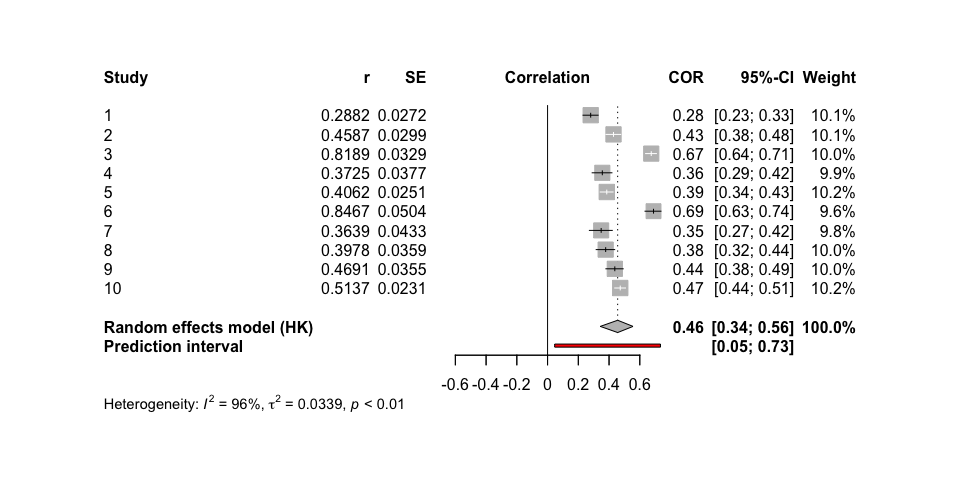
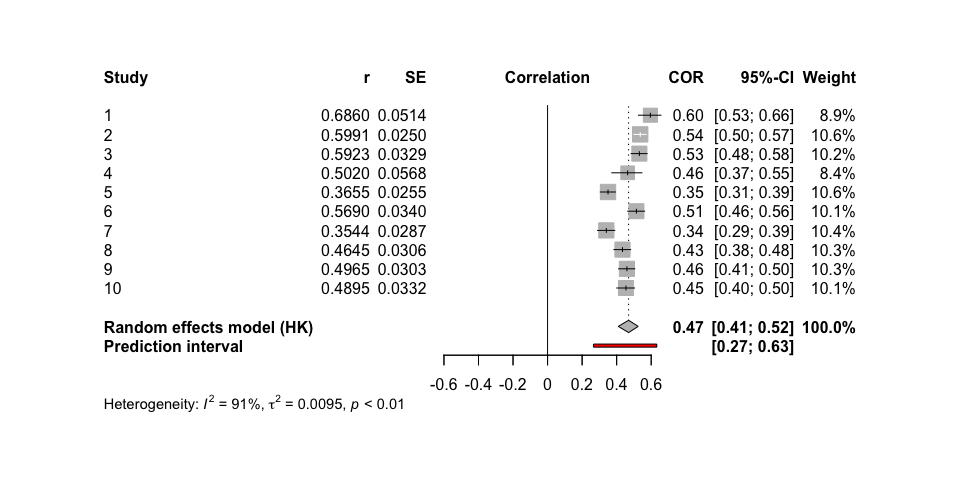
adjust figure height subgroup analysis demo

diff --git a/README.md b/README.md
@@ -48,14 +48,14 @@ sim <- sim_meta(min_obs = 20,
 
 head(sim)
 #> # A tibble: 6 × 10
-#>   study hedges_g     se  mean_x mean_y  sd_x  sd_y   n_x   n_y      vi
-#>   <int>    <dbl>  <dbl>   <dbl>  <dbl> <dbl> <dbl> <int> <int>   <dbl>
-#> 1     1    0.308 0.0677 -0.0499  0.263 0.980 1.05    441   441 0.00459
-#> 2     2    0.202 0.191  -0.0418  0.151 1.05  0.831    55    55 0.0365 
-#> 3     3    0.355 0.0559 -0.0928  0.260 0.981 1.01    649   649 0.00313
-#> 4     4    0.212 0.0468  0.0256  0.240 1.01  1.01    919   919 0.00219
-#> 5     5    0.264 0.0669  0.0213  0.287 1.01  1.01    451   451 0.00447
-#> 6     6    0.348 0.0397  0.0136  0.363 0.999 1.01   1291  1291 0.00157
+#>   study hedges_g     se   mean_x mean_y  sd_x  sd_y   n_x   n_y      vi
+#>   <int>    <dbl>  <dbl>    <dbl>  <dbl> <dbl> <dbl> <int> <int>   <dbl>
+#> 1     1    0.338 0.0777 -0.00348  0.345 1.02  1.03    336   336 0.00604
+#> 2     2    0.351 0.0462 -0.0264   0.332 1.02  1.02    951   951 0.00214
+#> 3     3    0.339 0.0709 -0.0557   0.293 1.01  1.05    404   404 0.00502
+#> 4     4    0.369 0.0552 -0.0361   0.325 0.953 1.00    668   668 0.00304
+#> 5     5    0.258 0.0348  0.0288   0.291 1.01  1.03   1666  1666 0.00121
+#> 6     6    0.269 0.0637  0.0259   0.292 0.998 0.976   497   497 0.00406
 ```
 
 ### Effect size and standard error
@@ -94,30 +94,30 @@ meta_fixed <- metagen(TE = hedges_g,
 summary(meta_fixed)
 #> Review:     Meta-Analysis Fixed effect
 #> 
-#>       SMD            95%-CI %W(common)
-#> 1  0.3078 [ 0.1751; 0.4406]        5.0
-#> 2  0.2016 [-0.1731; 0.5763]        0.6
-#> 3  0.3547 [ 0.2450; 0.4643]        7.3
-#> 4  0.2115 [ 0.1198; 0.3032]       10.4
-#> 5  0.2642 [ 0.1331; 0.3952]        5.1
-#> 6  0.3484 [ 0.2707; 0.4261]       14.5
-#> 7  0.3153 [ 0.2495; 0.3810]       20.3
-#> 8  0.2207 [ 0.1285; 0.3129]       10.3
-#> 9  0.3140 [ 0.2262; 0.4018]       11.4
-#> 10 0.3515 [ 0.2751; 0.4279]       15.0
+#>       SMD           95%-CI %W(common)
+#> 1  0.3385 [0.1862; 0.4908]        4.6
+#> 2  0.3508 [0.2602; 0.4414]       13.0
+#> 3  0.3391 [0.2002; 0.4780]        5.5
+#> 4  0.3690 [0.2609; 0.4772]        9.1
+#> 5  0.2583 [0.1901; 0.3265]       22.9
+#> 6  0.2689 [0.1440; 0.3938]        6.8
+#> 7  0.3389 [0.2209; 0.4568]        7.7
+#> 8  0.3103 [0.1321; 0.4884]        3.4
+#> 9  0.2165 [0.0184; 0.4145]        2.7
+#> 10 0.3306 [0.2643; 0.3970]       24.2
 #> 
 #> Number of studies: k = 10
 #> 
 #>                        SMD           95%-CI     z  p-value
-#> Common effect model 0.3040 [0.2743; 0.3336] 20.11 < 0.0001
+#> Common effect model 0.3136 [0.2810; 0.3463] 18.82 < 0.0001
 #> 
 #> Quantifying heterogeneity:
-#>  tau^2 = 0.0009 [0.0000; 0.0073]; tau = 0.0302 [0.0000; 0.0857]
-#>  I^2 = 21.1% [0.0%; 61.3%]; H = 1.13 [1.00; 1.61]
+#>  tau^2 < 0.0001 [0.0000; 0.0033]; tau = 0.0085 [0.0000; 0.0571]
+#>  I^2 = 0.0% [0.0%; 62.4%]; H = 1.00 [1.00; 1.63]
 #> 
 #> Test of heterogeneity:
-#>      Q d.f. p-value
-#>  11.41    9  0.2485
+#>     Q d.f. p-value
+#>  6.26    9  0.7138
 #> 
 #> Details on meta-analytical method:
 #> - Inverse variance method
@@ -151,14 +151,14 @@ sim <- sim_meta(min_obs = 200,
 
 head(sim)
 #> # A tibble: 6 × 10
-#>   study hedges_g     se  mean_x mean_y  sd_x  sd_y   n_x   n_y      vi
-#>   <int>    <dbl>  <dbl>   <dbl>  <dbl> <dbl> <dbl> <int> <int>   <dbl>
-#> 1     1    0.735 0.0469 -0.0140  0.720 0.993 1.00    972   972 0.00220
-#> 2     2    0.707 0.0361  0.0604  0.767 0.993 1.01   1634  1634 0.00130
-#> 3     3    0.735 0.0708  0.0114  0.765 1.04  1.01    426   426 0.00501
-#> 4     4    0.741 0.0553  0.0348  0.783 0.994 1.02    699   699 0.00306
-#> 5     5    0.782 0.0449 -0.0791  0.710 1.03  0.989  1070  1070 0.00201
-#> 6     6    0.707 0.0489  0.0600  0.749 0.993 0.957   890   890 0.00239
+#>   study hedges_g     se   mean_x mean_y  sd_x  sd_y   n_x   n_y      vi
+#>   <int>    <dbl>  <dbl>    <dbl>  <dbl> <dbl> <dbl> <int> <int>   <dbl>
+#> 1     1    0.641 0.0400  0.0627   0.697 0.981 0.998  1311  1311 0.00160
+#> 2     2    0.855 0.0409 -0.0306   0.823 0.977 1.02   1307  1307 0.00167
+#> 3     3    0.567 0.0413 -0.0727   0.492 1.02  0.969  1219  1219 0.00171
+#> 4     4    0.806 0.0530 -0.00846  0.794 0.994 0.996   771   771 0.00280
+#> 5     5    0.676 0.0435  0.0177   0.692 1.02  0.971  1119  1119 0.00189
+#> 6     6    0.607 0.0379  0.112    0.718 1.00  0.996  1453  1453 0.00144
 ```
 
 ### Run Meta-Analysis on simulated data
@@ -182,29 +182,29 @@ summary(meta_random)
 #> Review:     Meta-Analysis Random Effects
 #> 
 #>       SMD           95%-CI %W(random)
-#> 1  0.7349 [0.6430; 0.8267]        8.5
-#> 2  0.7068 [0.6361; 0.7775]       14.4
-#> 3  0.7350 [0.5963; 0.8738]        3.7
-#> 4  0.7408 [0.6324; 0.8492]        6.1
-#> 5  0.7817 [0.6938; 0.8696]        9.3
-#> 6  0.7066 [0.6108; 0.8023]        7.8
-#> 7  0.7490 [0.6786; 0.8194]       14.5
-#> 8  0.8624 [0.7125; 1.0122]        3.2
-#> 9  0.7440 [0.6755; 0.8124]       15.3
-#> 10 0.7063 [0.6413; 0.7713]       17.0
+#> 1  0.6407 [0.5622; 0.7191]       10.3
+#> 2  0.8548 [0.7747; 0.9349]       10.2
+#> 3  0.5672 [0.4862; 0.6481]       10.2
+#> 4  0.8060 [0.7022; 0.9098]        9.4
+#> 5  0.6758 [0.5906; 0.7610]       10.1
+#> 6  0.6066 [0.5322; 0.6810]       10.4
+#> 7  0.6020 [0.5371; 0.6668]       10.7
+#> 8  0.5616 [0.4788; 0.6444]       10.2
+#> 9  0.6947 [0.5505; 0.8389]        7.9
+#> 10 0.8369 [0.7668; 0.9070]       10.6
 #> 
 #> Number of studies: k = 10
 #> 
 #>                              SMD           95%-CI     t  p-value
-#> Random effects model (HK) 0.7360 [0.7112; 0.7608] 67.13 < 0.0001
+#> Random effects model (HK) 0.6834 [0.6032; 0.7637] 19.26 < 0.0001
 #> 
 #> Quantifying heterogeneity:
-#>  tau^2 = 0 [0.0000; 0.0033]; tau = 0 [0.0000; 0.0570]
-#>  I^2 = 0.0% [0.0%; 62.4%]; H = 1.00 [1.00; 1.63]
+#>  tau^2 = 0.0109 [0.0042; 0.0393]; tau = 0.1045 [0.0645; 0.1983]
+#>  I^2 = 86.9% [77.9%; 92.3%]; H = 2.77 [2.13; 3.59]
 #> 
 #> Test of heterogeneity:
-#>     Q d.f. p-value
-#>  5.78    9  0.7618
+#>      Q d.f.  p-value
+#>  68.84    9 < 0.0001
 #> 
 #> Details on meta-analytical method:
 #> - Inverse variance method
@@ -243,12 +243,12 @@ head(sim)
 #> # A tibble: 6 × 5
 #>   study     z     r     n     se
 #>   <int> <dbl> <dbl> <int>  <dbl>
-#> 1     1 0.498 0.461  1331 0.0274
-#> 2     2 0.560 0.508   960 0.0323
-#> 3     3 0.563 0.511  1874 0.0231
-#> 4     4 0.569 0.515  1448 0.0263
-#> 5     5 0.522 0.480   828 0.0348
-#> 6     6 0.596 0.534  1575 0.0252
+#> 1     1 0.573 0.518  1634 0.0248
+#> 2     2 0.523 0.480   523 0.0439
+#> 3     3 0.484 0.449   942 0.0326
+#> 4     4 0.571 0.516  1700 0.0243
+#> 5     5 0.550 0.500   775 0.0360
+#> 6     6 0.569 0.515  1850 0.0233
 ```
 
 ### Run Meta-Analysis on simulated data
@@ -269,29 +269,29 @@ summary(meta_fixed)
 #> Review:     Meta-Analysis Fixed effect
 #> 
 #>       COR           95%-CI %W(common)
-#> 1  0.4606 [0.4171; 0.5019]       10.9
-#> 2  0.5077 [0.4591; 0.5532]        7.8
-#> 3  0.5105 [0.4763; 0.5432]       15.3
-#> 4  0.5148 [0.4759; 0.5517]       11.8
-#> 5  0.4796 [0.4253; 0.5304]        6.7
-#> 6  0.5343 [0.4981; 0.5687]       12.9
-#> 7  0.5012 [0.4339; 0.5629]        4.2
-#> 8  0.4783 [0.4431; 0.5119]       15.8
-#> 9  0.5097 [0.4593; 0.5569]        7.2
-#> 10 0.4957 [0.4448; 0.5433]        7.4
+#> 1  0.5175 [0.4811; 0.5522]       14.2
+#> 2  0.4801 [0.4113; 0.5434]        4.5
+#> 3  0.4491 [0.3966; 0.4987]        8.2
+#> 4  0.5158 [0.4800; 0.5499]       14.8
+#> 5  0.5004 [0.4457; 0.5514]        6.7
+#> 6  0.5149 [0.4806; 0.5477]       16.1
+#> 7  0.5087 [0.4654; 0.5495]       10.4
+#> 8  0.4911 [0.4404; 0.5387]        8.0
+#> 9  0.4733 [0.4242; 0.5196]        8.9
+#> 10 0.5075 [0.4590; 0.5530]        8.3
 #> 
 #> Number of studies: k = 10
 #> 
 #>                        COR           95%-CI     z p-value
-#> Common effect model 0.5000 [0.4866; 0.5132] 60.75       0
+#> Common effect model 0.5009 [0.4871; 0.5145] 59.00       0
 #> 
 #> Quantifying heterogeneity:
-#>  tau^2 = 0.0002 [0.0000; 0.0020]; tau = 0.0156 [0.0000; 0.0446]
-#>  I^2 = 13.1% [0.0%; 54.3%]; H = 1.07 [1.00; 1.48]
+#>  tau^2 = 0 [0.0000; 0.0019]; tau = 0 [0.0000; 0.0440]
+#>  I^2 = 0.0% [0.0%; 62.4%]; H = 1.00 [1.00; 1.63]
 #> 
 #> Test of heterogeneity:
-#>      Q d.f. p-value
-#>  10.36    9  0.3223
+#>     Q d.f. p-value
+#>  8.46    9  0.4885
 #> 
 #> Details on meta-analytical method:
 #> - Inverse variance method
@@ -329,12 +329,12 @@ head(sim)
 #> # A tibble: 6 × 5
 #>   study     z     r     n     se
 #>   <int> <dbl> <dbl> <int>  <dbl>
-#> 1     1 0.288 0.280  1358 0.0272
-#> 2     2 0.459 0.429  1118 0.0299
-#> 3     3 0.819 0.674   925 0.0329
-#> 4     4 0.372 0.356   708 0.0377
-#> 5     5 0.406 0.385  1592 0.0251
-#> 6     6 0.847 0.689   397 0.0504
+#> 1     1 0.686 0.595   381 0.0514
+#> 2     2 0.599 0.536  1601 0.0250
+#> 3     3 0.592 0.532   927 0.0329
+#> 4     4 0.502 0.464   313 0.0568
+#> 5     5 0.366 0.350  1538 0.0255
+#> 6     6 0.569 0.515   866 0.0340
 ```
 
 ### Run Meta-Analysis on simulated data
@@ -356,29 +356,29 @@ summary(meta_random)
 #> Review:     Meta-Analysis Random Effects
 #> 
 #>       COR           95%-CI %W(random)
-#> 1  0.2805 [0.2307; 0.3288]       10.1
-#> 2  0.4290 [0.3799; 0.4757]       10.1
-#> 3  0.6745 [0.6378; 0.7082]       10.0
-#> 4  0.3562 [0.2901; 0.4188]        9.9
-#> 5  0.3852 [0.3426; 0.4263]       10.2
-#> 6  0.6893 [0.6339; 0.7377]        9.6
-#> 7  0.3487 [0.2720; 0.4209]        9.8
-#> 8  0.3780 [0.3162; 0.4366]       10.0
-#> 9  0.4374 [0.3795; 0.4920]       10.0
-#> 10 0.4728 [0.4370; 0.5072]       10.2
+#> 1  0.5954 [0.5264; 0.6566]        8.9
+#> 2  0.5364 [0.5006; 0.5704]       10.6
+#> 3  0.5316 [0.4838; 0.5762]       10.2
+#> 4  0.4637 [0.3719; 0.5465]        8.4
+#> 5  0.3501 [0.3054; 0.3932]       10.6
+#> 6  0.5146 [0.4639; 0.5620]       10.1
+#> 7  0.3403 [0.2896; 0.3891]       10.4
+#> 8  0.4338 [0.3839; 0.4811]       10.3
+#> 9  0.4593 [0.4112; 0.5050]       10.3
+#> 10 0.4538 [0.4006; 0.5040]       10.1
 #> 
 #> Number of studies: k = 10
 #> 
-#>                              COR           95%-CI    t  p-value
-#> Random effects model (HK) 0.4561 [0.3431; 0.5560] 8.26 < 0.0001
+#>                              COR           95%-CI     t  p-value
+#> Random effects model (HK) 0.4692 [0.4095; 0.5249] 15.55 < 0.0001
 #> 
 #> Quantifying heterogeneity:
-#>  tau^2 = 0.0339 [0.0154; 0.1181]; tau = 0.1840 [0.1241; 0.3436]
-#>  I^2 = 96.2% [94.6%; 97.4%]; H = 5.16 [4.31; 6.19]
+#>  tau^2 = 0.0095 [0.0038; 0.0345]; tau = 0.0972 [0.0618; 0.1858]
+#>  I^2 = 90.6% [84.8%; 94.1%]; H = 3.25 [2.56; 4.13]
 #> 
 #> Test of heterogeneity:
-#>       Q d.f.  p-value
-#>  239.90    9 < 0.0001
+#>      Q d.f.  p-value
+#>  95.30    9 < 0.0001
 #> 
 #> Details on meta-analytical method:
 #> - Inverse variance method
@@ -417,14 +417,14 @@ sim <- sim_meta(min_obs = 200,
 head(sim %>% 
        select(study, hedges_g, subgroup, everything()))
 #> # A tibble: 6 × 11
-#>   study hedges_g subgroup     se  mean_x mean_y  sd_x  sd_y   n_x   n_y      vi
-#>   <int>    <dbl> <chr>     <dbl>   <dbl>  <dbl> <dbl> <dbl> <int> <int>   <dbl>
-#> 1     1    0.934 group2   0.0366 -0.0305  0.901 1.00  0.990  1655  1655 0.00134
-#> 2     2    0.853 group2   0.0379 -0.0936  0.768 1.03  0.995  1515  1515 0.00144
-#> 3     3    0.735 group1   0.0708 -0.140   0.587 1.01  0.965   426   426 0.00501
-#> 4     4    0.750 group2   0.0360  0.135   0.874 0.985 0.982  1651  1651 0.00130
-#> 5     5    1.02  group2   0.0608  0.0639  1.08  1.02  0.980   610   610 0.00370
-#> 6     6    0.699 group1   0.0597 -0.0730  0.639 1.00  1.03    595   595 0.00357
+#>   study hedges_g subgroup     se   mean_x mean_y  sd_x  sd_y   n_x   n_y      vi
+#>   <int>    <dbl> <chr>     <dbl>    <dbl>  <dbl> <dbl> <dbl> <int> <int>   <dbl>
+#> 1     1    0.901 group2   0.0365 -0.162    0.753 1.01  1.02   1658  1658 0.00133
+#> 2     2    0.929 group2   0.0339 -0.00998  0.910 0.986 0.995  1927  1927 0.00115
+#> 3     3    0.867 group1   0.0463 -0.172    0.704 1.01  1.01   1022  1022 0.00214
+#> 4     4    0.709 group1   0.0445  0.0863   0.770 0.962 0.966  1072  1072 0.00198
+#> 5     5    0.632 group1   0.0379  0.0451   0.677 1.00  0.996  1460  1460 0.00144
+#> 6     6    0.631 group1   0.0405 -0.0923   0.525 0.982 0.976  1278  1278 0.00164
 ```
 
 ### Run Meta-Analysis on simulated data
@@ -446,43 +446,43 @@ summary(meta_random)
 #> Review:     Meta-Analysis Random Effects
 #> 
 #>       SMD           95%-CI %W(random) subgroup
-#> 1  0.9341 [0.8624; 1.0059]        7.0   group2
-#> 2  0.8528 [0.7784; 0.9271]        6.9   group2
-#> 3  0.7347 [0.5960; 0.8735]        6.2   group1
-#> 4  0.7504 [0.6798; 0.8210]        7.0   group2
-#> 5  1.0150 [0.8958; 1.1343]        6.5   group2
-#> 6  0.6991 [0.5820; 0.8161]        6.5   group1
-#> 7  0.4572 [0.3245; 0.5899]        6.3   group1
-#> 8  0.6689 [0.6013; 0.7364]        7.0   group2
-#> 9  0.3439 [0.2659; 0.4218]        6.9   group1
-#> 10 0.5853 [0.4786; 0.6921]        6.6   group1
-#> 11 0.6399 [0.5372; 0.7426]        6.7   group1
-#> 12 0.6091 [0.5251; 0.6932]        6.9   group2
-#> 13 0.5680 [0.4316; 0.7043]        6.2   group1
-#> 14 0.7015 [0.5770; 0.8260]        6.4   group2
-#> 15 0.8712 [0.7959; 0.9465]        6.9   group1
+#> 1  0.9007 [0.8293; 0.9722]        6.9   group2
+#> 2  0.9289 [0.8624; 0.9953]        6.9   group2
+#> 3  0.8668 [0.7761; 0.9575]        6.7   group1
+#> 4  0.7088 [0.6215; 0.7960]        6.7   group1
+#> 5  0.6323 [0.5580; 0.7067]        6.9   group1
+#> 6  0.6308 [0.5513; 0.7102]        6.8   group1
+#> 7  0.5823 [0.4839; 0.6807]        6.6   group1
+#> 8  0.5846 [0.5180; 0.6511]        6.9   group1
+#> 9  0.6132 [0.5314; 0.6951]        6.8   group1
+#> 10 0.4513 [0.3286; 0.5741]        6.2   group1
+#> 11 0.6526 [0.5819; 0.7233]        6.9   group1
+#> 12 0.6624 [0.5891; 0.7358]        6.9   group1
+#> 13 0.5574 [0.4588; 0.6559]        6.6   group1
+#> 14 1.0014 [0.8655; 1.1373]        6.0   group2
+#> 15 0.4792 [0.3591; 0.5992]        6.3   group1
 #> 
 #> Number of studies: k = 15
 #> 
 #>                              SMD           95%-CI     t  p-value
-#> Random effects model (HK) 0.6967 [0.5984; 0.7951] 15.19 < 0.0001
+#> Random effects model (HK) 0.6841 [0.5934; 0.7747] 16.19 < 0.0001
 #> 
 #> Quantifying heterogeneity:
-#>  tau^2 = 0.0291 [0.0143; 0.0755]; tau = 0.1705 [0.1196; 0.2747]
-#>  I^2 = 93.4% [90.7%; 95.3%]; H = 3.90 [3.28; 4.63]
+#>  tau^2 = 0.0240 [0.0119; 0.0656]; tau = 0.1548 [0.1092; 0.2562]
+#>  I^2 = 92.0% [88.4%; 94.4%]; H = 3.53 [2.94; 4.24]
 #> 
 #> Test of heterogeneity:
 #>       Q d.f.  p-value
-#>  212.62   14 < 0.0001
+#>  174.70   14 < 0.0001
 #> 
 #> Results for subgroups (random effects model (HK)):
-#>                     k    SMD           95%-CI  tau^2    tau      Q   I^2
-#> subgroup = group2   7 0.7888 [0.6528; 0.9248] 0.0192 0.1387  64.80 90.7%
-#> subgroup = group1   8 0.6126 [0.4727; 0.7526] 0.0258 0.1607 102.18 93.1%
+#>                     k    SMD           95%-CI   tau^2    tau     Q   I^2
+#> subgroup = group2   3 0.9256 [0.8336; 1.0175] <0.0001 0.0020  1.67  0.0%
+#> subgroup = group1  12 0.6228 [0.5567; 0.6890]  0.0082 0.0905 49.60 77.8%
 #> 
 #> Test for subgroup differences (random effects model (HK)):
-#>                   Q d.f. p-value
-#> Between groups 4.71    1  0.0300
+#>                    Q d.f.  p-value
+#> Between groups 67.38    1 < 0.0001
 #> 
 #> Details on meta-analytical method:
 #> - Inverse variance method
